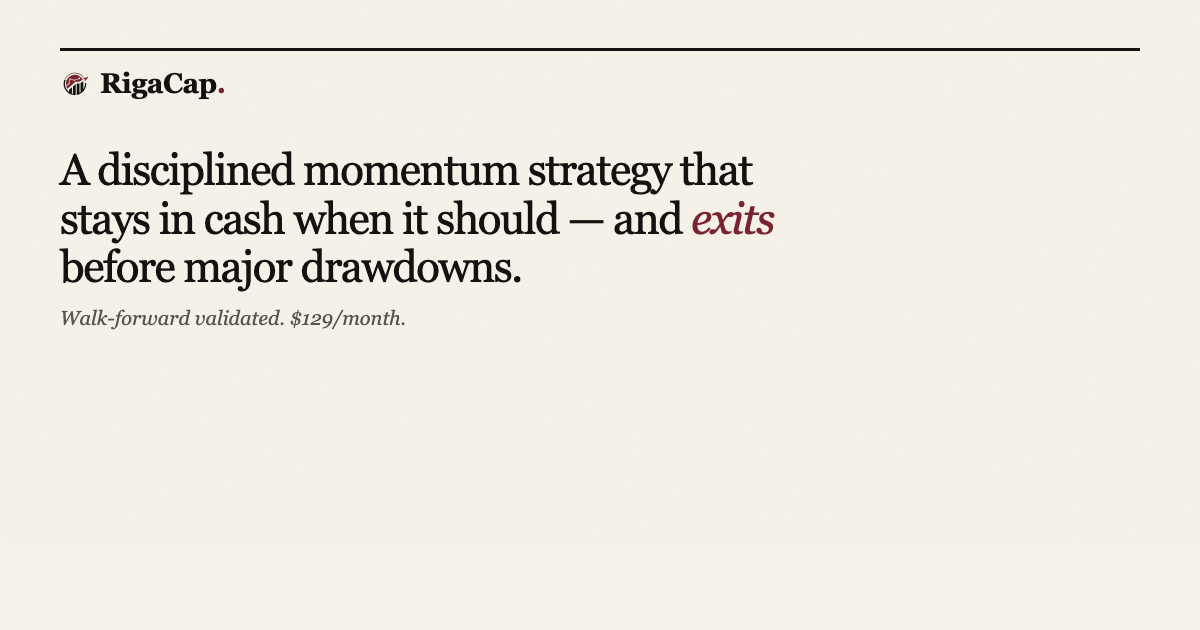
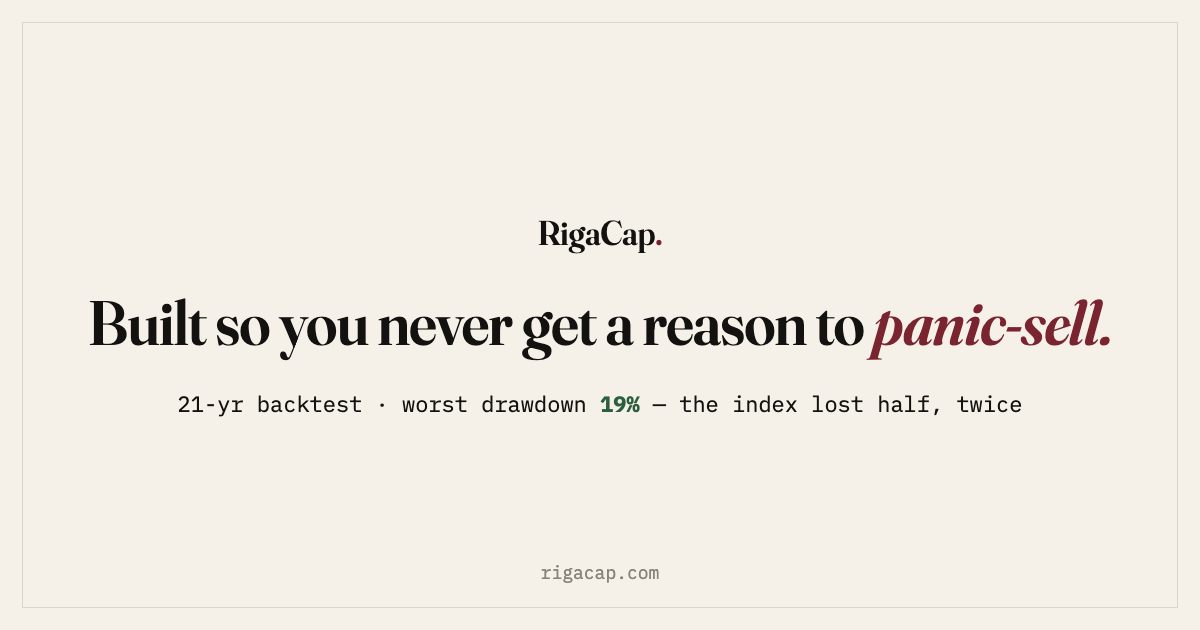
Launch sequence rewritten to canon + OG metas/card to current positioning
Launch posts (main.py + SocialTab mirror, all 15 platform variants): the
14%/17%/nine-years and +109/+160/+252 window-mean mirages and the 7-regimes
concept replaced with the 21-year canon, the worst-six-months story (matching
the new card 4), de-formula'd factors, and the discipline close with the
behavioral line. OG: index.html meta/og/twitter/JSON-LD descriptions and
og-card.png regenerated on the panic-sell thesis (Apple Mail link previews
were serving the old line); track-record + methodology prerender descriptions
to canon incl. the honest premium.

diff --git a/frontend/src/components/SocialTab.jsx b/frontend/src/components/SocialTab.jsx
@@ -635,15 +635,15 @@ const LAUNCH_POSTS = [
     label: 'Now Live',
     imageUrl: '/launch-cards/launch-1.png',
     twitter: {
-      text: "RigaCap is live.\n\nA disciplined momentum strategy for the investor who already knows enough to follow signals \u2014 but doesn't have the time to build the system that generates them.\n\nStays in cash when it should. Exits before major drawdowns.\n\nrigacap.com",
+      text: "RigaCap is live.\n\nFifteen years of building, rebuilt this year on honest data, now running with real capital.\n\nA momentum strategy designed around one number: the worst drawdown. 19% across a 21-year backtest — through 2008, COVID, and 2022 — while the index lost half its value twice.\n\nrigacap.com",
       hashtags: '',
     },
     instagram: {
-      text: "RigaCap is live.\n\nIt is built for the investor who already knows enough to follow signals. Trailing stops, regime awareness, position sizing \u2014 these are not novel ideas. The hard part is operating them with discipline, every day, without flinching.\n\nThat's what RigaCap does. The system stays in cash when conditions deteriorate. Exits before major drawdowns. Sends 3 to 4 signals a month, sometimes zero. Most months, that is the right answer.\n\nNo minimums. No performance fees. Same signals for everyone, whether you put in $5k or $500k.\n\nrigacap.com",
+      text: "RigaCap is live.\n\nFifteen years of nights-and-weekends building, rebuilt this year from scratch on honest data, now running with real capital.\n\nIt is a momentum strategy designed around one number: the worst drawdown. Across a 21-year walk-forward backtest — through the 2008 financial crisis, COVID, and the 2022 bear — the worst peak-to-trough loss was 19%. The index lost half its value twice in that span.\n\nDiversified across ~20 names, sized by risk, with wide trailing stops and a regime filter that moves the whole book to cash when markets turn hostile. Selective, not silent.\n\nNo minimums. No performance fees. Same signals for everyone.\n\nrigacap.com",
       hashtags: '#investing #momentum #disciplinedtrading #rigacap',
     },
     threads: {
-      text: "RigaCap is live.\n\nBuilt for the investor who already knows enough to follow signals \u2014 but doesn't have time to build the system that generates them.\n\nStays in cash when it should. Exits before major drawdowns. 3 to 4 signals a month, sometimes zero.\n\nrigacap.com",
+      text: "RigaCap is live.\n\nFifteen years of building, rebuilt this year on honest data, now running with real capital.\n\nDesigned around one number: the worst drawdown. 19% across 21 backtested years — the index lost half its value twice.\n\nrigacap.com",
     },
   },
   {
@@ -651,15 +651,15 @@ const LAUNCH_POSTS = [
     label: 'No Cherry-Picking',
     imageUrl: '/launch-cards/launch-2.png',
     twitter: {
-      text: "Most backtests cherry-pick the start date that flatters them. We published all of ours.\n\nWorst: +109%\nAverage: +160%\nBest: +252%\nMax drawdown: 20.4%\n\nFive years. Every start date positive \u2014 including the one that began before the 2022 bear.\n\nrigacap.com/track-record",
+      text: "Most backtests cherry-pick the start date that flatters them. Ours runs 21 years, continuous, no hindsight — and when cleaner data made our numbers smaller, we published the smaller numbers.\n\n8.3% a year. Worst drawdown 19% — a third of raw momentum's 57%.\n\nThe honest version: rigacap.com/track-record",
       hashtags: '',
     },
     instagram: {
-      text: "Most backtests show you the result that flatters the strategy. A single start date, the one where the numbers work.\n\nWe published all of ours.\n\nFive-year walk-forward, multiple start dates, no cherry-picking:\n\nWorst: +109%\nAverage: +160%\nBest: +252%\nMax drawdown: 20.4%\n\nEvery start date positive. Including the one that began before the 2022 bear market \u2014 the year the S&P fell 20%.\n\nFull methodology published on the track record page, exactly as the strategy ran. No omissions.\n\nrigacap.com/track-record",
+      text:"Most backtests show you the result that flatters the strategy. Ours runs twenty-one years, continuous, with no hindsight — and when cleaner data made our numbers smaller, we published the smaller numbers.\n\nThe 21-year walk-forward backtest:\n\nReturn: 8.3% a year\nWorst drawdown: 19% — a third of raw momentum's 57%, while the index lost 55%\nLast 24 months (held-out): +32% annualized\n\nThe point was never the biggest number. It's a drawdown you can actually hold through — because the return you can hold through is the only one you collect.\n\nFull methodology, including the numbers that don't flatter us, on the track record page.\n\nrigacap.com/track-record",
       hashtags: '#investing #backtest #walkforward #trackrecord #rigacap',
     },
     threads: {
-      text: "Most backtests cherry-pick the start date that flatters the strategy.\n\nWe published all of ours.\n\nWorst: +109%\nAverage: +160%\nBest: +252%\nMax drawdown: 20.4%\n\nEvery start date positive \u2014 including the one that began before the 2022 bear.\n\nFull methodology published.\n\nrigacap.com/track-record",
+      text: "Most backtests cherry-pick the start date that flatters them.\n\nOurs runs 21 years, continuous, no hindsight — and when cleaner data made our numbers smaller, we published the smaller numbers.\n\n8.3% a year. Worst drawdown 19% — a third of raw momentum's 57%.\n\nrigacap.com/track-record",
     },
   },
   {
@@ -667,15 +667,15 @@ const LAUNCH_POSTS = [
     label: 'Three-Factor Ensemble',
     imageUrl: '/launch-cards/launch-3.png',
     twitter: {
-      text: "Three things have to align before RigaCap signals a buy:\n\nI. Timing \u2014 wait for the right breakout. Don't chase.\nII. Quality \u2014 buy strength, not hope. Leaders, not laggards.\nIII. Risk \u2014 read the regime first. Some weeks, the answer is cash.\n\nWhen they don't align, the system stays quiet.",
+      text: "Three things must align before RigaCap signals a buy:\n\nI. Timing — the right breakout. Don't chase.\nII. Quality — accelerating strength in an established trend. Leaders, not laggards.\nIII. Confirmation — strength near highs. Never a falling knife.\n\nWhen they don't align, the system stays quiet. Some weeks, cash is the position.",
       hashtags: '',
     },
     instagram: {
-      text: "A signal is not a single indicator firing. It is the coincidence of three things going right at once.\n\nI. TIMING. Wait for the right breakout. Don't chase. Patience over impulse.\n\nII. QUALITY. Buy strength, not hope. The system only acts on names already proving themselves \u2014 leaders, not laggards.\n\nIII. RISK. Read the regime first. The system reads seven distinct market conditions; in some of them, the right answer is to not trade at all. Some weeks, that is exactly what happens.\n\nWhen all three align, RigaCap signals. When they don't, the system does nothing.\n\nMost months, nothing is the right answer.\n\nrigacap.com",
+      text: "A signal is not a single indicator firing. It is three things going right at once.\n\nI. TIMING. The right breakout, not a chased one. Patience over impulse.\n\nII. QUALITY. Accelerating strength inside an established trend — leaders proving themselves, not laggards looking cheap.\n\nIII. CONFIRMATION. Strength near recent highs, in an uptrend. The system never catches falling knives.\n\nWhen all three align, RigaCap signals. When they don't, it does nothing — and when the market itself turns hostile, the whole book goes to cash.\n\nSome weeks, nothing is the right answer.\n\nrigacap.com",
       hashtags: '#investing #ensemble #systematictrading #rigacap',
     },
     threads: {
-      text: "Three things have to align before RigaCap signals a buy:\n\nI. Timing \u2014 wait for the right breakout. Don't chase.\nII. Quality \u2014 buy strength, not hope. Leaders, not laggards.\nIII. Risk \u2014 read the regime first. Some weeks, the answer is cash.\n\nWhen they don't align, the system stays quiet.\n\nrigacap.com",
+      text: "Three things must align before RigaCap signals a buy:\n\nI. Timing — the right breakout. Don't chase.\nII. Quality — accelerating strength in an established trend.\nIII. Confirmation — strength near highs. Never a falling knife.\n\nWhen they don't align, the system stays quiet.\n\nrigacap.com",
     },
   },
   {
@@ -683,15 +683,15 @@ const LAUNCH_POSTS = [
     label: 'Seven Regimes',
     imageUrl: '/launch-cards/launch-4.png',
     twitter: {
-      text: "The market doesn't have one mode. It has seven.\n\nStrong Bull. Weak Bull. Rotating Bull.\nRange Bound. Weak Bear. Panic.\nRecovery.\n\nRigaCap reads which one you're in and adjusts position sizing, stops, and signal sensitivity automatically.\n\nCash is a position too.",
+      text: "The index's six worst months of the last 21 years:\n\nOct 2008: −16.5%. Mar 2020: −13.1%. Feb 2009: −10.7%. Sep 2008: −9.9%. Sep 2022: −9.6%. Dec 2018: −9.3%.\n\nOur backtest's same months: 0.0%, −4.7%, 0.0%, 0.0%, 0.0%, −1.3%.\n\nFour of the six, it had already gone to cash.\n\nrigacap.com/track-record",
       hashtags: '',
     },
     instagram: {
-      text: "The market does not have one mode. It has seven.\n\nStrong Bull \u2014 broad rally, full exposure.\nWeak Bull \u2014 advancing on narrow leadership.\nRotating Bull \u2014 sector rotation driving gains.\nRange Bound \u2014 sideways, low conviction.\nWeak Bear \u2014 declining with selling pressure.\nPanic / Crash \u2014 sharp selloff, system moves to cash.\nRecovery \u2014 rebounding from recent lows.\n\nThe system reads daily which regime is active. Position sizing, stop levels, and signal sensitivity adjust automatically. In panic, no new entries. In strong bull, full size.\n\nA strategy that performs in one regime and fails in another is not a strategy. It is luck.\n\nCash is a position too.\n\nrigacap.com",
+      text: "The index's six worst months of the last twenty-one years — and where our backtest was when they hit:\n\nOct 2008: index −16.5% · system 0.0% (in cash)\nMar 2020: index −13.1% · system −4.7%\nFeb 2009: index −10.7% · system 0.0% (in cash)\nSep 2008: index −9.9% · system 0.0% (in cash)\nSep 2022: index −9.6% · system 0.0% (in cash)\nDec 2018: index −9.3% · system −1.3%\n\nFour of the six, the regime filter had already moved the entire book to cash before the month began. That is the whole design: participate in trends, step aside in storms.\n\nBacktested monthly returns, 2007–2026. Every number labeled on the track record page.\n\nrigacap.com/track-record",
       hashtags: '#investing #marketregime #riskmanagement #rigacap',
     },
     threads: {
-      text: "The market does not have one mode. It has seven.\n\nStrong Bull. Weak Bull. Rotating Bull. Range Bound. Weak Bear. Panic. Recovery.\n\nRigaCap reads which one you're in and adjusts position sizing, stops, and signal sensitivity automatically.\n\nCash is a position too.\n\nrigacap.com",
+      text: "The index's six worst months in 21 years: −16.5%, −13.1%, −10.7%, −9.9%, −9.6%, −9.3%.\n\nOur backtest's same months: 0.0%, −4.7%, 0.0%, 0.0%, 0.0%, −1.3%.\n\nFour of the six, it had already gone to cash.\n\nrigacap.com/track-record",
     },
   },
   {
@@ -699,11 +699,11 @@ const LAUNCH_POSTS = [
     label: 'External Discipline',
     imageUrl: '/launch-cards/launch-5.png',
     twitter: {
-      text: "You can find signals anywhere. Discipline is harder.\n\nSitting in cash when nothing's working. Honoring stops without second-guessing. Not doubling down on losers.\n\nRigaCap is an external discipline layer.\n\n$59/mo founding rate (first 100). 7-day trial.\n\nrigacap.com",
+      text: "You can find signals anywhere. Discipline is harder.\n\nSitting in cash when nothing's working. Honoring stops without second-guessing. Not doubling down on losers.\n\nRigaCap is an external discipline layer — it removes your own behavior as the biggest risk in your portfolio.\n\n$59/mo founding rate (first 100). 7-day trial.\n\nrigacap.com",
       hashtags: '',
     },
     instagram: {
-      text: "You can find signals anywhere. The internet is full of them.\n\nWhat is harder to find is the discipline to follow them. To sit in cash when nothing is working. To honor a stop without second-guessing it. To not double down on a losing position because the chart looks oversold.\n\nRigaCap is an external discipline layer. The system tells you when to enter, when to exit, and \u2014 just as importantly \u2014 when to do nothing.\n\nFounding rate: $59 per month for the first 100 members.\nStandard: $129 per month.\nAnnual: $1,099 (three months free).\nTrial: 7 days, full access.\n\nrigacap.com",
+      text: "You can find signals anywhere. The internet is full of them.\n\nWhat is harder to find is the discipline to follow them. To sit in cash when nothing is working. To honor a stop without second-guessing it. To not double down on a loser because the chart looks oversold.\n\nRigaCap is an external discipline layer. It tells you when to enter, when to exit, and — just as importantly — when to do nothing. It removes your own behavior as the biggest risk in your portfolio.\n\nFounding rate: $59 per month for the first 100 members.\nStandard: $129 per month. Annual: $1,099.\nTrial: 7 days, full access.\n\nrigacap.com",
       hashtags: '#investing #disciplinedtrading #signals #rigacap',
     },
     threads: {

diff --git a/frontend/index.html b/frontend/index.html
@@ -11,7 +11,7 @@
     <link rel="preconnect" href="https://fonts.gstatic.com" crossorigin>
     <link href="https://fonts.googleapis.com/css2?family=Fraunces:ital,opsz,wght@0,9..144,300;0,9..144,400;0,9..144,500;0,9..144,600;1,9..144,300;1,9..144,400&family=IBM+Plex+Mono:wght@400;500&family=IBM+Plex+Sans:ital,wght@0,400;0,500;0,600;1,400&display=swap" rel="stylesheet">
     <title>RigaCap — Disciplined Momentum Strategy</title>
-    <meta name="description" content="A disciplined momentum strategy that stays in cash when it should and exits before major drawdowns. Walk-forward validated. $129/month." />
+    <meta name="description" content="Momentum signals built around the drawdown. 21-year walk-forward backtest: worst drawdown 19% while the index lost half twice. +32% annualized last 24 months, held-out. $129/month." />
     <link rel="canonical" href="https://rigacap.com/" />
 
     <!-- Structured Data -->
@@ -22,7 +22,7 @@
       "name": "RigaCap",
       "applicationCategory": "FinanceApplication",
       "operatingSystem": "Web",
-      "description": "A disciplined momentum strategy for self-directed investors. Walk-forward validated across multiple start dates. Three-factor ensemble approach with seven-regime market detection.",
+      "description": "Momentum signals built around the drawdown, for self-directed investors and advisers. 21-year walk-forward backtest through 2008, COVID, and 2022; worst drawdown 19%. Live record accruing.",
       "url": "https://rigacap.com",
       "offers": {
         "@type": "Offer",
@@ -36,14 +36,14 @@
     <!-- Open Graph -->
     <meta property="og:type" content="website" />
     <meta property="og:url" content="https://rigacap.com" />
-    <meta property="og:title" content="RigaCap — Disciplined Momentum Strategy" />
-    <meta property="og:description" content="A disciplined momentum strategy that stays in cash when it should and exits before major drawdowns. Built for the investor who's tired of fighting their own worst instincts." />
+    <meta property="og:title" content="RigaCap — Momentum Signals Built Around the Drawdown" />
+    <meta property="og:description" content="21 backtested years — 2008, COVID, 2022 — with a worst drawdown of 19% while the index lost half twice. Built so you never get a reason to panic-sell." />
     <meta property="og:image" content="https://rigacap.com/og-card.png" />
 
     <!-- Twitter Card -->
     <meta name="twitter:card" content="summary_large_image" />
     <meta name="twitter:title" content="RigaCap — Disciplined Momentum Strategy" />
-    <meta name="twitter:description" content="A disciplined momentum strategy that stays in cash when it should and exits before major drawdowns. Walk-forward validated. $129/month." />
+    <meta name="twitter:description" content="21 backtested years — worst drawdown 19% while the index lost half twice. +32% annualized last 24 months, held-out. $129/month." />
     <meta name="twitter:image" content="https://rigacap.com/og-card.png" />
 
     <!-- GA4 loaded dynamically after cookie consent (see CookieConsent.jsx) -->

diff --git a/backend/main.py b/backend/main.py
@@ -5424,40 +5424,40 @@ def handler(event, context):
                 {
                     "id": "launch-1",
                     "image_s3_key": "social/images/launch-1.png",
-                    "twitter": "RigaCap is live.\n\nA disciplined momentum strategy for the investor who already knows enough to follow signals — but doesn't have the time to build the system that generates them.\n\nDiversified, risk-sized, and built to keep drawdowns shallow enough to hold through.\n\nrigacap.com",
-                    "instagram": "RigaCap is live.\n\nIt is built for the investor who already knows enough to follow signals. Trailing stops, risk-weighted sizing, diversification — these are not novel ideas. The hard part is operating them with discipline, every day, without flinching.\n\nThat's what RigaCap does. It sizes by risk, spreads across many names, and steps back when conditions turn hostile — keeping the worst-case drawdown roughly half what raw momentum demands. Selective, not silent.\n\nNo minimums. No performance fees. Same signals for everyone, whether you put in $5k or $500k.\n\nrigacap.com",
+                    "twitter": "RigaCap is live.\n\nFifteen years of building, rebuilt this year on honest data, now running with real capital.\n\nA momentum strategy designed around one number: the worst drawdown. 19% across a 21-year backtest — through 2008, COVID, and 2022 — while the index lost half its value twice.\n\nrigacap.com",
+                    "instagram": "RigaCap is live.\n\nFifteen years of nights-and-weekends building, rebuilt this year from scratch on honest data, now running with real capital.\n\nIt is a momentum strategy designed around one number: the worst drawdown. Across a 21-year walk-forward backtest — through the 2008 financial crisis, COVID, and the 2022 bear — the worst peak-to-trough loss was 19%. The index lost half its value twice in that span.\n\nDiversified across ~20 names, sized by risk, with wide trailing stops and a regime filter that moves the whole book to cash when markets turn hostile. Selective, not silent.\n\nNo minimums. No performance fees. Same signals for everyone.\n\nrigacap.com",
                     "instagram_tags": "#investing #momentum #riskmanagement #rigacap",
-                    "threads": "RigaCap is live.\n\nBuilt for the investor who already knows enough to follow signals — but doesn't have time to build the system that generates them.\n\nDiversified, risk-sized, drawdowns kept shallow enough to hold through.\n\nrigacap.com",
+                    "threads": "RigaCap is live.\n\nFifteen years of building, rebuilt this year on honest data, now running with real capital.\n\nDesigned around one number: the worst drawdown. 19% across 21 backtested years — the index lost half its value twice.\n\nrigacap.com",
                 },
                 {
                     "id": "launch-2",
                     "image_s3_key": "social/images/launch-2.png",
-                    "twitter": "Most backtests cherry-pick the start date that flatters them. We rebuilt ours on survivorship-free data — and revised the numbers down.\n\n~14% a year, with a 17% max drawdown — roughly half what raw momentum demands.\n\nNine years, every regime. The honest version.\n\nrigacap.com/track-record",
-                    "instagram": "Most backtests show you the result that flatters the strategy. We did the opposite.\n\nWe rebuilt ours on survivorship-free, point-in-time data — and when the honest numbers came in lower than our old figures, we revised them down.\n\nNine-year walk-forward, every regime:\n\nReturn: ~14% a year\nMax drawdown: 17% — about half what raw momentum demands\nSharpe: ~1.0\n\nThe point was never the biggest number. It's a drawdown you can actually hold through. Full methodology on the track record page.\n\nrigacap.com/track-record",
+                    "twitter": "Most backtests cherry-pick the start date that flatters them. Ours runs 21 years, continuous, no hindsight — and when cleaner data made our numbers smaller, we published the smaller numbers.\n\n8.3% a year. Worst drawdown 19% — a third of raw momentum's 57%.\n\nThe honest version: rigacap.com/track-record",
+                    "instagram": "Most backtests show you the result that flatters the strategy. Ours runs twenty-one years, continuous, with no hindsight — and when cleaner data made our numbers smaller, we published the smaller numbers.\n\nThe 21-year walk-forward backtest:\n\nReturn: 8.3% a year\nWorst drawdown: 19% — a third of raw momentum's 57%, while the index lost 55%\nLast 24 months (held-out): +32% annualized\n\nThe point was never the biggest number. It's a drawdown you can actually hold through — because the return you can hold through is the only one you collect.\n\nFull methodology, including the numbers that don't flatter us, on the track record page.\n\nrigacap.com/track-record",
                     "instagram_tags": "#investing #riskmanagement #walkforward #trackrecord #rigacap",
-                    "threads": "Most backtests cherry-pick the start date that flatters the strategy.\n\nWe rebuilt ours on survivorship-free data and revised the numbers down.\n\n~14% a year. 17% max drawdown — half what raw momentum demands.\n\nNine years, every regime. The honest version.\n\nrigacap.com/track-record",
+                    "threads": "Most backtests cherry-pick the start date that flatters them.\n\nOurs runs 21 years, continuous, no hindsight — and when cleaner data made our numbers smaller, we published the smaller numbers.\n\n8.3% a year. Worst drawdown 19% — a third of raw momentum's 57%.\n\nrigacap.com/track-record",
                 },
                 {
                     "id": "launch-3",
                     "image_s3_key": "social/images/launch-3.png",
-                    "twitter": "Three things have to align before RigaCap signals a buy:\n\nI. Timing — wait for the right breakout. Don't chase.\nII. Quality — buy strength, not hope. Leaders, not laggards.\nIII. Risk — read the regime first. Some weeks, the answer is cash.\n\nWhen they don't align, the system stays quiet.",
-                    "instagram": "A signal is not a single indicator firing. It is the coincidence of three things going right at once.\n\nI. TIMING. Wait for the right breakout. Don't chase. Patience over impulse.\n\nII. QUALITY. Buy strength, not hope. The system only acts on names already proving themselves — leaders, not laggards.\n\nIII. RISK. Read the regime first. The system reads seven distinct market conditions; in some of them, the right answer is to not trade at all. Some weeks, that is exactly what happens.\n\nWhen all three align, RigaCap signals. When they don't, the system does nothing.\n\nMost months, nothing is the right answer.\n\nrigacap.com",
+                    "twitter": "Three things must align before RigaCap signals a buy:\n\nI. Timing — the right breakout. Don't chase.\nII. Quality — accelerating strength in an established trend. Leaders, not laggards.\nIII. Confirmation — strength near highs. Never a falling knife.\n\nWhen they don't align, the system stays quiet. Some weeks, cash is the position.",
+                    "instagram": "A signal is not a single indicator firing. It is three things going right at once.\n\nI. TIMING. The right breakout, not a chased one. Patience over impulse.\n\nII. QUALITY. Accelerating strength inside an established trend — leaders proving themselves, not laggards looking cheap.\n\nIII. CONFIRMATION. Strength near recent highs, in an uptrend. The system never catches falling knives.\n\nWhen all three align, RigaCap signals. When they don't, it does nothing — and when the market itself turns hostile, the whole book goes to cash.\n\nSome weeks, nothing is the right answer.\n\nrigacap.com",
                     "instagram_tags": "#investing #ensemble #systematictrading #rigacap",
-                    "threads": "Three things have to align before RigaCap signals a buy:\n\nI. Timing — wait for the right breakout. Don't chase.\nII. Quality — buy strength, not hope. Leaders, not laggards.\nIII. Risk — read the regime first. Some weeks, the answer is cash.\n\nWhen they don't align, the system stays quiet.\n\nrigacap.com",
+                    "threads": "Three things must align before RigaCap signals a buy:\n\nI. Timing — the right breakout. Don't chase.\nII. Quality — accelerating strength in an established trend.\nIII. Confirmation — strength near highs. Never a falling knife.\n\nWhen they don't align, the system stays quiet.\n\nrigacap.com",
                 },
                 {
                     "id": "launch-4",
                     "image_s3_key": "social/images/launch-4.png",
-                    "twitter": "The market doesn't have one mode. It has seven.\n\nStrong Bull. Weak Bull. Rotating Bull.\nRange Bound. Weak Bear. Panic.\nRecovery.\n\nRigaCap reads which one you're in and adjusts position sizing, stops, and signal sensitivity automatically.\n\nCash is a position too.",
-                    "instagram": "The market does not have one mode. It has seven.\n\nStrong Bull — broad rally, full exposure.\nWeak Bull — advancing on narrow leadership.\nRotating Bull — sector rotation driving gains.\nRange Bound — sideways, low conviction.\nWeak Bear — declining with selling pressure.\nPanic / Crash — sharp selloff, system moves to cash.\nRecovery — rebounding from recent lows.\n\nThe system reads daily which regime is active. Position sizing, stop levels, and signal sensitivity adjust automatically. In panic, no new entries. In strong bull, full size.\n\nA strategy that performs in one regime and fails in another is not a strategy. It is luck.\n\nCash is a position too.\n\nrigacap.com",
+                    "twitter": "The index's six worst months of the last 21 years:\n\nOct 2008: −16.5%. Mar 2020: −13.1%. Feb 2009: −10.7%. Sep 2008: −9.9%. Sep 2022: −9.6%. Dec 2018: −9.3%.\n\nOur backtest's same months: 0.0%, −4.7%, 0.0%, 0.0%, 0.0%, −1.3%.\n\nFour of the six, it had already gone to cash.\n\nrigacap.com/track-record",
+                    "instagram": "The index's six worst months of the last twenty-one years — and where our backtest was when they hit:\n\nOct 2008: index −16.5% · system 0.0% (in cash)\nMar 2020: index −13.1% · system −4.7%\nFeb 2009: index −10.7% · system 0.0% (in cash)\nSep 2008: index −9.9% · system 0.0% (in cash)\nSep 2022: index −9.6% · system 0.0% (in cash)\nDec 2018: index −9.3% · system −1.3%\n\nFour of the six, the regime filter had already moved the entire book to cash before the month began. That is the whole design: participate in trends, step aside in storms.\n\nBacktested monthly returns, 2007–2026. Every number labeled on the track record page.\n\nrigacap.com/track-record",
                     "instagram_tags": "#investing #marketregime #riskmanagement #rigacap",
-                    "threads": "The market does not have one mode. It has seven.\n\nStrong Bull. Weak Bull. Rotating Bull. Range Bound. Weak Bear. Panic. Recovery.\n\nRigaCap reads which one you're in and adjusts position sizing, stops, and signal sensitivity automatically.\n\nCash is a position too.\n\nrigacap.com",
+                    "threads": "The index's six worst months in 21 years: −16.5%, −13.1%, −10.7%, −9.9%, −9.6%, −9.3%.\n\nOur backtest's same months: 0.0%, −4.7%, 0.0%, 0.0%, 0.0%, −1.3%.\n\nFour of the six, it had already gone to cash.\n\nrigacap.com/track-record",
                 },
                 {
                     "id": "launch-5",
                     "image_s3_key": "social/images/launch-5.png",
-                    "twitter": "You can find signals anywhere. Discipline is harder.\n\nSitting in cash when nothing's working. Honoring stops without second-guessing. Not doubling down on losers.\n\nRigaCap is an external discipline layer.\n\n$59/mo founding rate (first 100). 7-day trial.\n\nrigacap.com",
-                    "instagram": "You can find signals anywhere. The internet is full of them.\n\nWhat is harder to find is the discipline to follow them. To sit in cash when nothing is working. To honor a stop without second-guessing it. To not double down on a losing position because the chart looks oversold.\n\nRigaCap is an external discipline layer. The system tells you when to enter, when to exit, and — just as importantly — when to do nothing.\n\nFounding rate: $59 per month for the first 100 members.\nStandard: $129 per month.\nAnnual: $1,099 (three months free).\nTrial: 7 days, full access.\n\nrigacap.com",
+                    "twitter": "You can find signals anywhere. Discipline is harder.\n\nSitting in cash when nothing's working. Honoring stops without second-guessing. Not doubling down on losers.\n\nRigaCap is an external discipline layer — it removes your own behavior as the biggest risk in your portfolio.\n\n$59/mo founding rate (first 100). 7-day trial.\n\nrigacap.com",
+                    "instagram": "You can find signals anywhere. The internet is full of them.\n\nWhat is harder to find is the discipline to follow them. To sit in cash when nothing is working. To honor a stop without second-guessing it. To not double down on a loser because the chart looks oversold.\n\nRigaCap is an external discipline layer. It tells you when to enter, when to exit, and — just as importantly — when to do nothing. It removes your own behavior as the biggest risk in your portfolio.\n\nFounding rate: $59 per month for the first 100 members.\nStandard: $129 per month. Annual: $1,099.\nTrial: 7 days, full access.\n\nrigacap.com",
                     "instagram_tags": "#investing #disciplinedtrading #signals #rigacap",
                     "threads": "You can find signals anywhere. Discipline is harder.\n\nSitting in cash when nothing's working. Honoring stops without second-guessing. Not doubling down on losers.\n\nRigaCap is an external discipline layer.\n\n$59/mo founding rate, first 100 members. 7-day trial.\n\nrigacap.com",
                 },